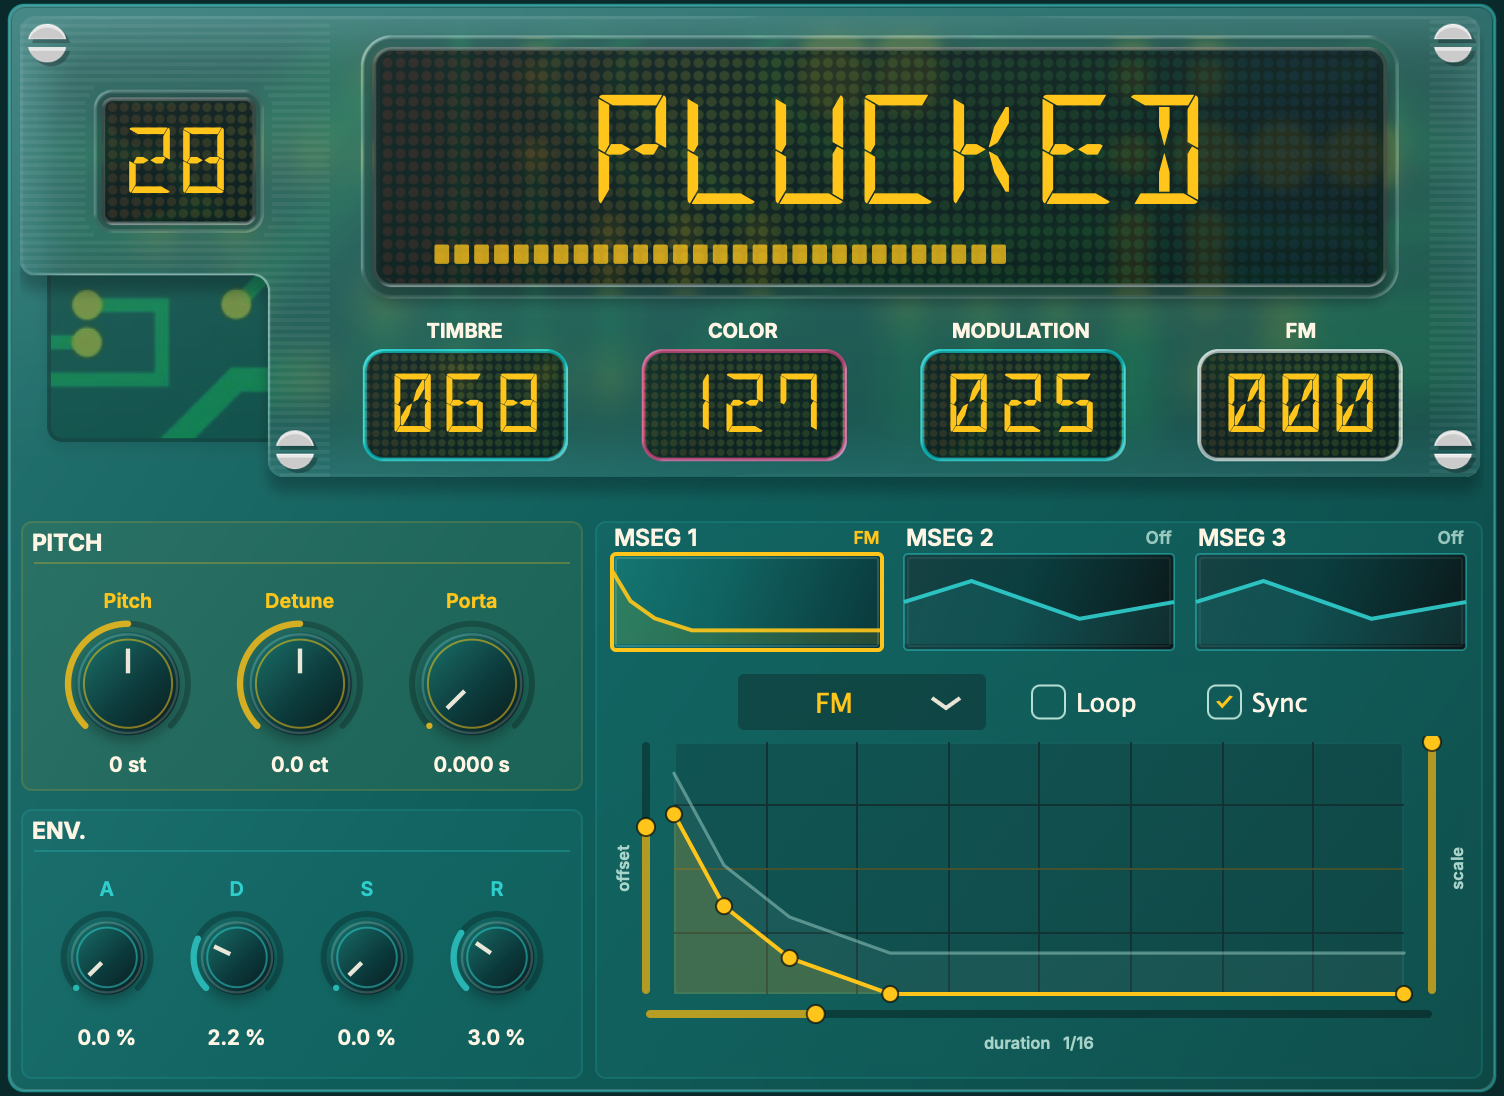
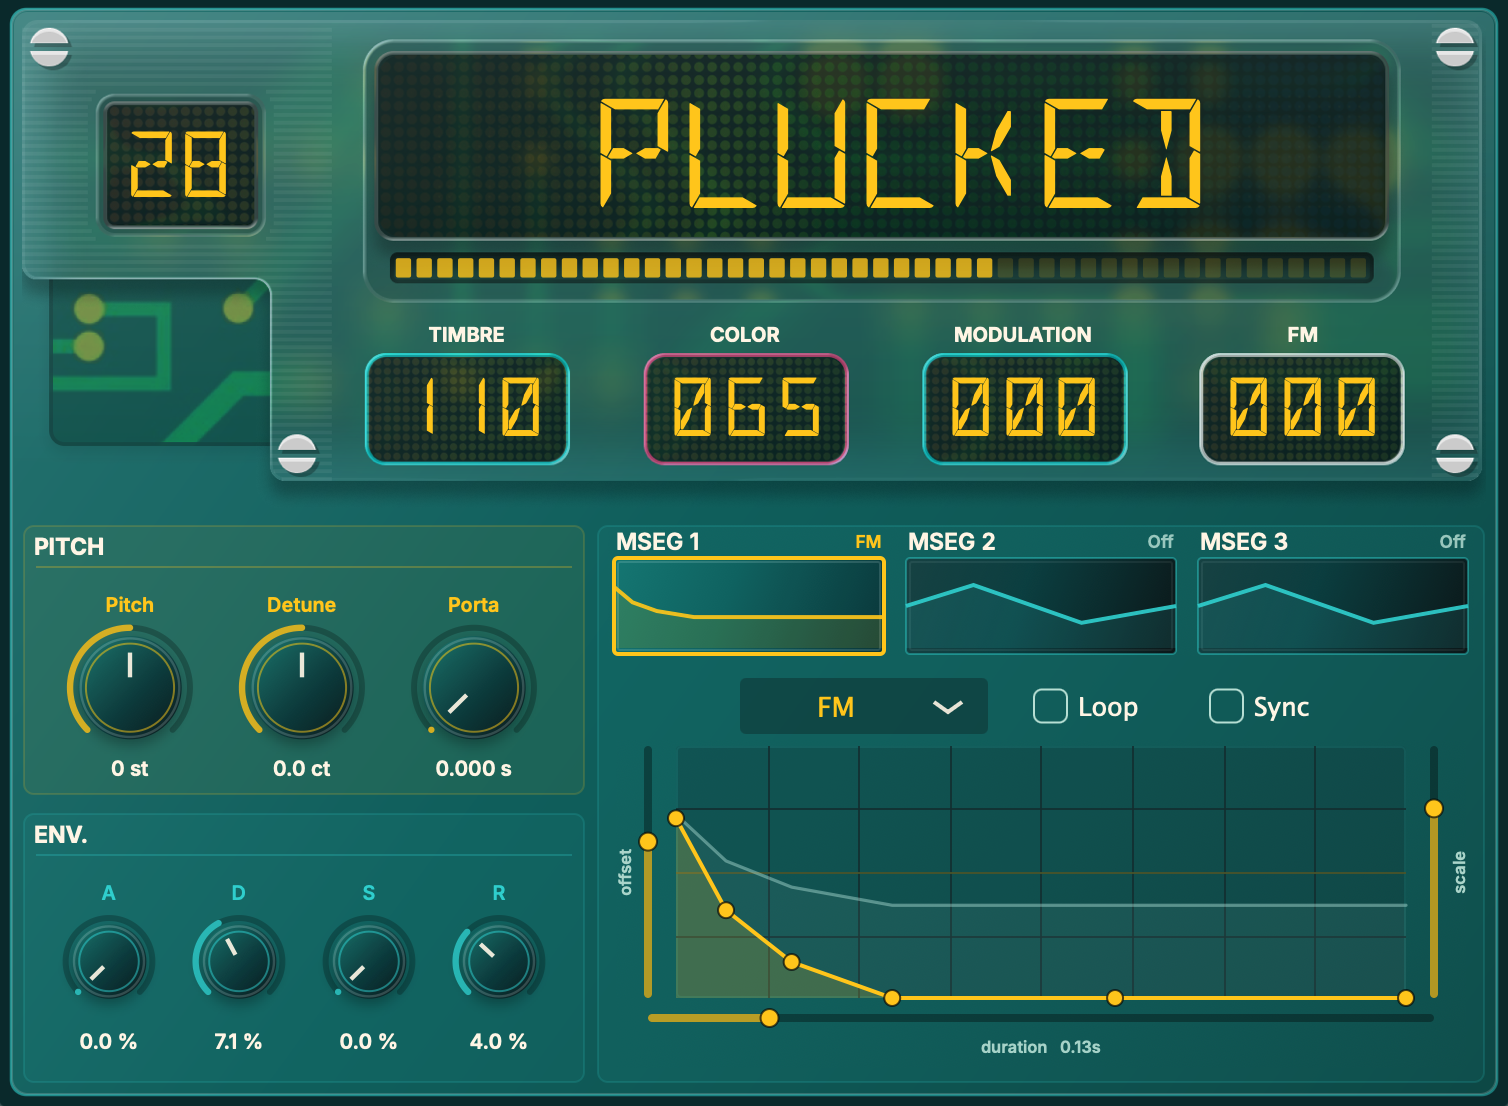
add DC blocking to master out, minor ui changes

diff --git a/Source/StandaloneApp.cpp b/Source/StandaloneApp.cpp
@@ -4,6 +4,75 @@
 
 namespace macro_osc
 {
+namespace
+{
+void hideBluetoothMidiControls (juce::Component& component)
+{
+    for (int i = 0; i < component.getNumChildComponents(); ++i)
+    {
+        if (auto* child = component.getChildComponent (i))
+        {
+            if (auto* button = dynamic_cast<juce::Button*> (child))
+            {
+                if (button->getButtonText().containsIgnoreCase ("Bluetooth MIDI"))
+                {
+                    button->setVisible (false);
+                    button->setEnabled (false);
+                    button->setBounds ({});
+                }
+            }
+
+            hideBluetoothMidiControls (*child);
+        }
+    }
+}
+
+class SafeAudioSettingsComponent final : public juce::Component,
+                                         private juce::Timer
+{
+public:
+    explicit SafeAudioSettingsComponent (juce::AudioDeviceManager& deviceManager)
+        : selector (deviceManager, 0, 0, 0, 2, true, false, true, false)
+    {
+        setOpaque (true);
+        addAndMakeVisible (selector);
+        setSize (500, 520);
+        startTimerHz (4);
+        hideBluetoothMidiControls (selector);
+    }
+
+    ~SafeAudioSettingsComponent() override
+    {
+        stopTimer();
+    }
+
+    void paint (juce::Graphics& g) override
+    {
+        g.fillAll (getLookAndFeel().findColour (juce::ResizableWindow::backgroundColourId));
+    }
+
+    void resized() override
+    {
+        selector.setBounds (getLocalBounds().reduced (10));
+        hideBluetoothMidiControls (selector);
+    }
+
+    void childBoundsChanged (juce::Component* child) override
+    {
+        if (child == &selector)
+            setSize (getWidth(), selector.getHeight() + 20);
+    }
+
+private:
+    void timerCallback() override
+    {
+        hideBluetoothMidiControls (selector);
+    }
+
+    juce::AudioDeviceSelectorComponent selector;
+};
+} // namespace
+
 class NativeTitlebarStandaloneWindow final : public juce::StandaloneFilterWindow
 {
 public:
@@ -22,7 +91,32 @@ public:
         hideCustomTitlebarOptionsButton();
     }
 
+    void handleMenuResult (int result)
+    {
+        if (result == 1)
+        {
+            showSafeAudioSettingsDialog();
+            return;
+        }
+
+        juce::StandaloneFilterWindow::handleMenuResult (result);
+    }
+
 private:
+    void showSafeAudioSettingsDialog()
+    {
+        juce::DialogWindow::LaunchOptions options;
+        auto content = std::make_unique<SafeAudioSettingsComponent> (getDeviceManager());
+
+        options.content.setOwned (content.release());
+        options.dialogTitle = "Audio/MIDI Settings";
+        options.dialogBackgroundColour = findColour (juce::ResizableWindow::backgroundColourId);
+        options.escapeKeyTriggersCloseButton = true;
+        options.useNativeTitleBar = true;
+        options.resizable = false;
+        options.launchAsync();
+    }
+
     void hideCustomTitlebarOptionsButton()
     {
         for (int i = 0; i < getNumChildComponents(); ++i)
@@ -114,7 +208,7 @@ public:
        #if (JUCE_ANDROID || JUCE_IOS) && ! JUCE_DONT_AUTO_OPEN_MIDI_DEVICES_ON_MOBILE
             true;
        #else
-            false;
+            true;
        #endif
 
        #ifdef JucePlugin_PreferredChannelConfigurations
@@ -125,10 +219,13 @@ public:
         const juce::Array<juce::StandalonePluginHolder::PluginInOuts> channelConfig;
        #endif
 
+        juce::AudioDeviceManager::AudioDeviceSetup preferredSetup;
+        preferredSetup.bufferSize = 128;
+
         return std::make_unique<juce::StandalonePluginHolder> (appProperties.getUserSettings(),
                                                                false,
                                                                juce::String {},
-                                                               nullptr,
+                                                               &preferredSetup,
                                                                channelConfig,
                                                                autoOpenMidiDevices);
     }

diff --git a/Source/PluginProcessor.cpp b/Source/PluginProcessor.cpp
@@ -7,6 +7,8 @@ namespace macro_osc
 {
 namespace
 {
+constexpr double kDcBlockerCutoffHz = 20.0;
+
 juce::NormalisableRange<float> skewedRange (float start, float end, float interval, float skew)
 {
     return { start, end, interval, skew };
@@ -59,6 +61,13 @@ void MacroOscAudioProcessor::prepareToPlay (double sampleRate, int)
     synth.setCurrentPlaybackSampleRate (sampleRate);
     for (auto* voice : braidsVoices)
         voice->prepare (sampleRate);
+
+    if (sampleRate > 0.0)
+        dcBlockerCoefficient = static_cast<float> (std::exp (-2.0 * juce::MathConstants<double>::pi * kDcBlockerCutoffHz / sampleRate));
+    else
+        dcBlockerCoefficient = 0.995f;
+
+    resetOutputDcBlocker();
 }
 
 void MacroOscAudioProcessor::releaseResources()
@@ -83,6 +92,7 @@ void MacroOscAudioProcessor::processBlock (juce::AudioBuffer<float>& buffer, juc
         voice->setParameters (voiceParameters);
 
     synth.renderNextBlock (buffer, midiMessages, 0, buffer.getNumSamples());
+    applyOutputDcBlocker (buffer);
 }
 
 juce::AudioProcessorEditor* MacroOscAudioProcessor::createEditor()
@@ -174,6 +184,37 @@ void MacroOscAudioProcessor::cacheRawParameterPointers()
     }
 }
 
+void MacroOscAudioProcessor::resetOutputDcBlocker() noexcept
+{
+    dcBlockerPreviousInput.fill (0.0f);
+    dcBlockerPreviousOutput.fill (0.0f);
+}
+
+void MacroOscAudioProcessor::applyOutputDcBlocker (juce::AudioBuffer<float>& buffer) noexcept
+{
+    const auto channels = juce::jmin (buffer.getNumChannels(), static_cast<int> (dcBlockerPreviousInput.size()));
+    const auto samples = buffer.getNumSamples();
+
+    for (int channel = 0; channel < channels; ++channel)
+    {
+        auto* data = buffer.getWritePointer (channel);
+        auto previousInput = dcBlockerPreviousInput[static_cast<size_t> (channel)];
+        auto previousOutput = dcBlockerPreviousOutput[static_cast<size_t> (channel)];
+
+        for (int sample = 0; sample < samples; ++sample)
+        {
+            const auto input = data[sample];
+            const auto output = input - previousInput + dcBlockerCoefficient * previousOutput;
+            data[sample] = output;
+            previousInput = input;
+            previousOutput = output;
+        }
+
+        dcBlockerPreviousInput[static_cast<size_t> (channel)] = previousInput;
+        dcBlockerPreviousOutput[static_cast<size_t> (channel)] = previousOutput;
+    }
+}
+
 void MacroOscAudioProcessor::updateHostTempo() noexcept
 {
     if (auto* playHead = getPlayHead())
@@ -241,7 +282,7 @@ MacroOscAudioProcessor::APVTS::ParameterLayout MacroOscAudioProcessor::createPar
     layout.add (std::make_unique<juce::AudioParameterFloat> (
         juce::ParameterID { ParamIDs::sustain, 1 }, "Sustain", juce::NormalisableRange<float> { 0.0f, 1.0f }, 0.0f));
     layout.add (std::make_unique<juce::AudioParameterFloat> (
-        juce::ParameterID { ParamIDs::release, 1 }, "Release", skewedRange (0.0f, 10.0f, 0.001f, 0.35f), 2.0f));
+        juce::ParameterID { ParamIDs::release, 1 }, "Release", skewedRange (0.0f, 10.0f, 0.001f, 0.35f), 0.35f));
 
     for (int slot = 0; slot < kMsegSlotCount; ++slot)
     {

diff --git a/Source/PluginProcessor.h b/Source/PluginProcessor.h
@@ -127,9 +127,14 @@ private:
     std::array<std::atomic<const MsegShape*>, kMsegSlotCount> currentAudioMsegShapes {};
     std::vector<std::shared_ptr<const MsegShape>> retainedMsegShapes;
     std::atomic<float> currentTempoBpm { 120.0f };
+    std::array<float, 2> dcBlockerPreviousInput {};
+    std::array<float, 2> dcBlockerPreviousOutput {};
+    float dcBlockerCoefficient { 0.995f };
 
     void cacheRawParameterPointers();
     void updateHostTempo() noexcept;
+    void resetOutputDcBlocker() noexcept;
+    void applyOutputDcBlocker (juce::AudioBuffer<float>& buffer) noexcept;
     [[nodiscard]] const MsegShape* getAudioMsegShape (int slotIndex) const noexcept;
     [[nodiscard]] BraidsVoiceParameters buildVoiceParameters() const;
     [[nodiscard]] static float getFloatParameter (const std::atomic<float>* value) noexcept;